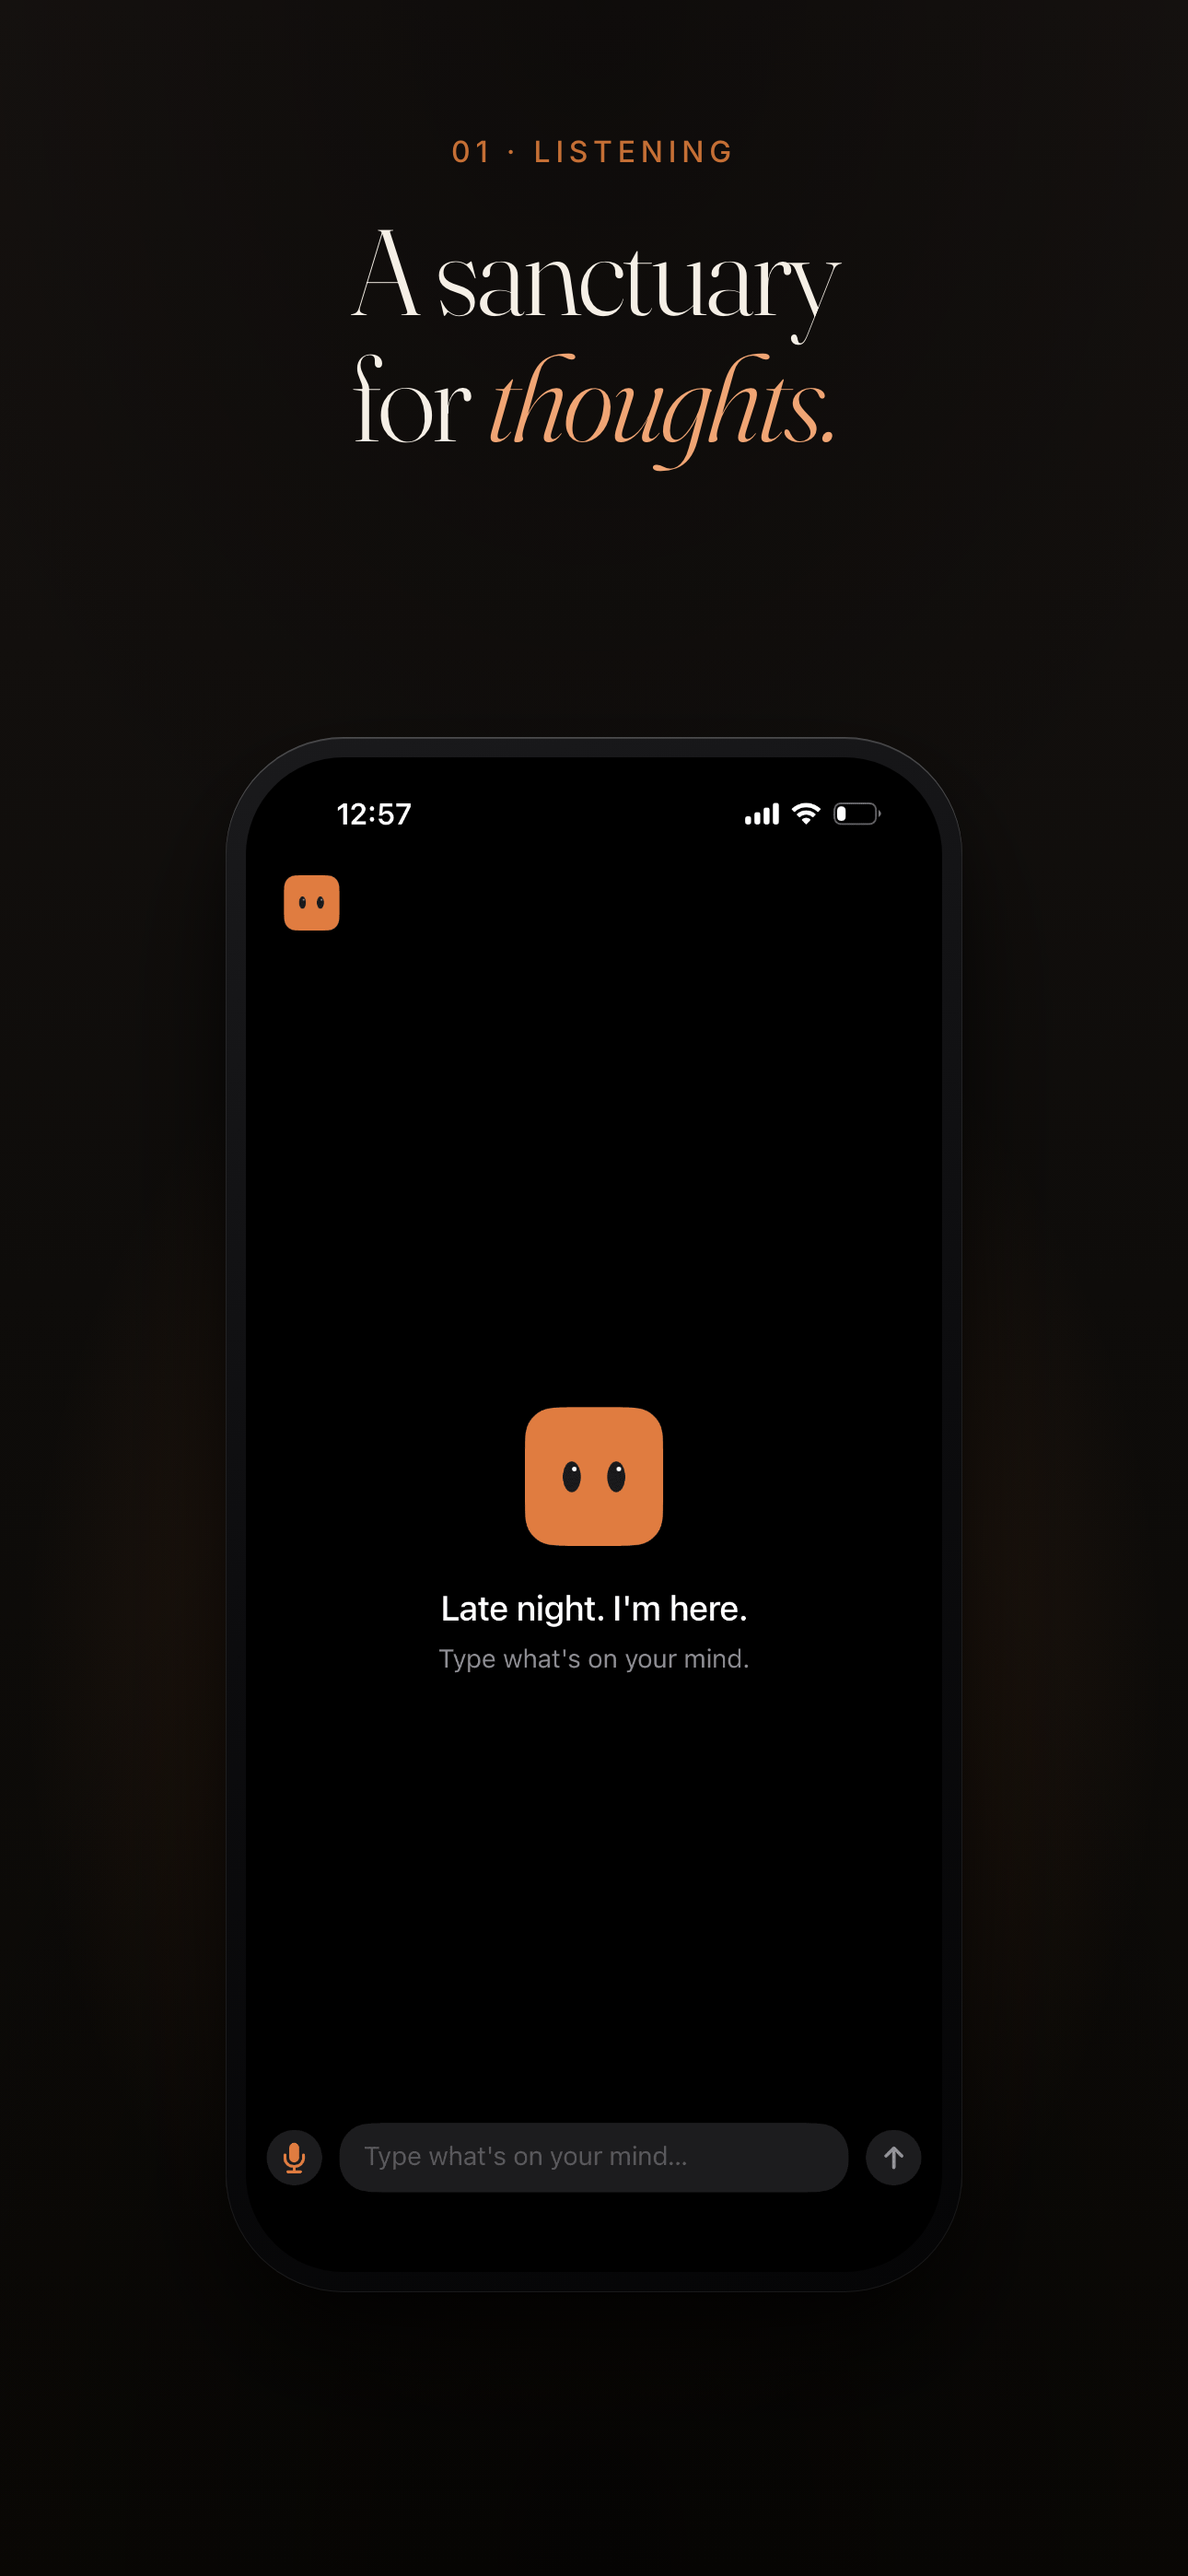
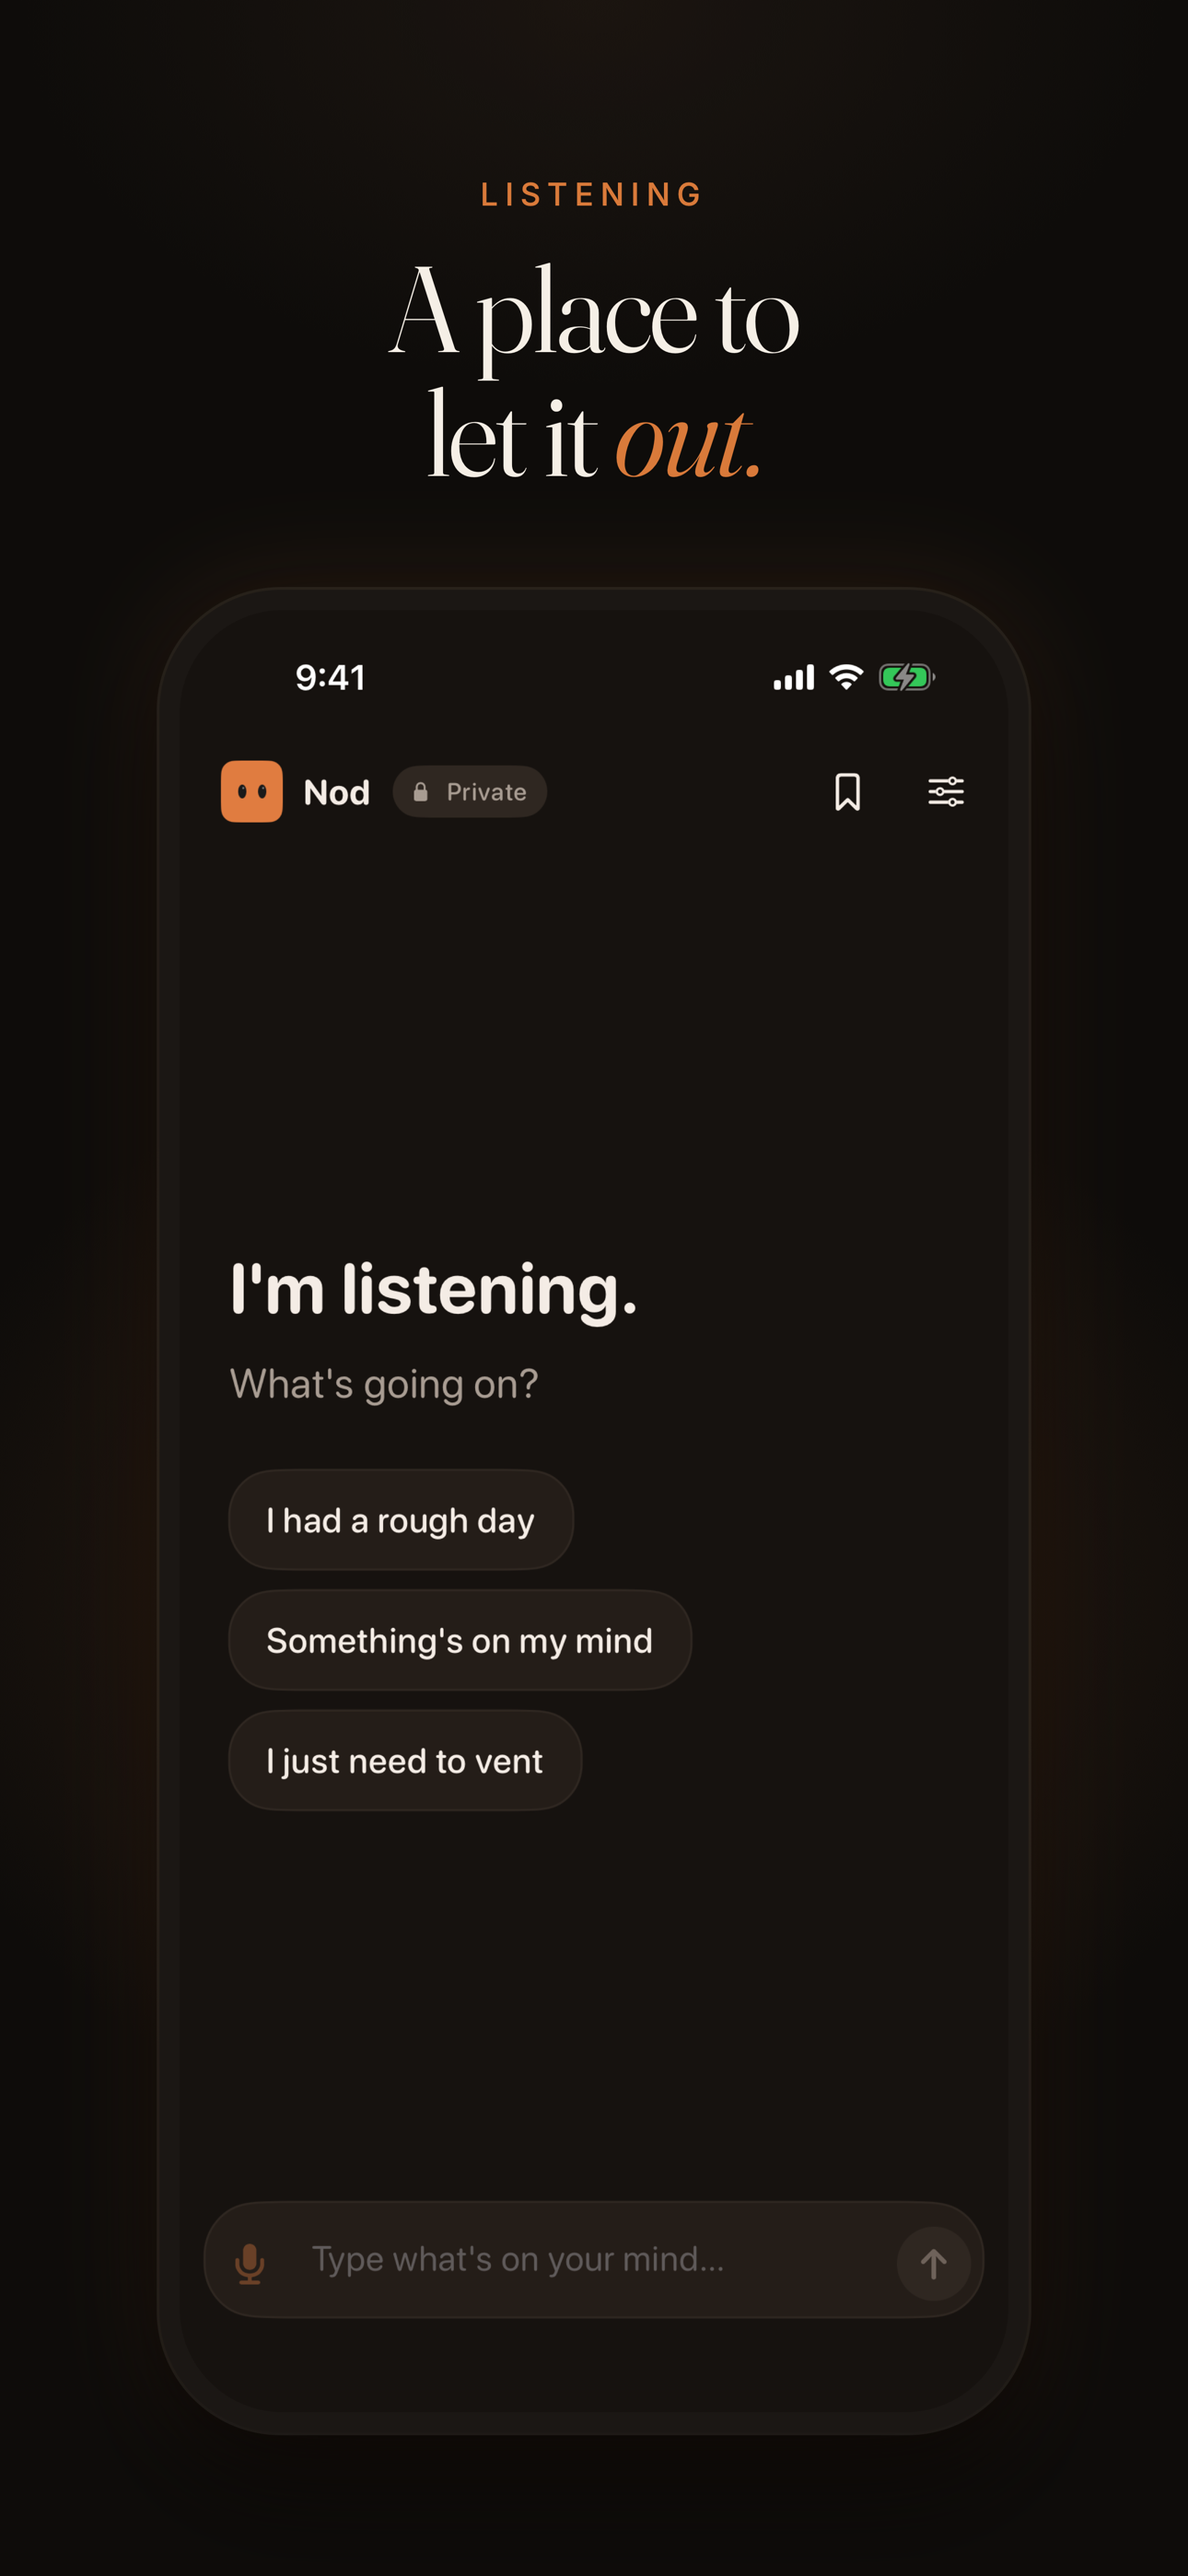
New App Store listing images and a generator for them
Eight 1290×2796 images showing the Soft app (dark, plus one light/dark
pair) with the website's plain-language headlines: listening, offline,
memory, voice, your way, light or dark, Face ID, and privacy in plain
numbers. Replaces the old set (old UI, engine list, "4 on-device
engines").

ios/scripts/listing-images/ renders them from an HTML template with the
system WebKit, as opaque RGB PNGs (App Store Connect rejects alpha), so
they can be regenerated after future UI changes. SUBMIT.md's upload
order is updated.

diff --git a/ios/scripts/listing-images/template.html b/ios/scripts/listing-images/template.html
@@ -1,0 +1,162 @@
+<!doctype html>
+<html lang="en">
+<head>
+<meta charset="utf-8">
+<title>Nod App Store image</title>
+<!-- Same type and palette as usenod.app, so the listing and the site
+     read as one brand. One slide per #hash (1–8); render.swift loads
+     each and snapshots it at exactly 1290×2796. -->
+<link rel="stylesheet" href="https://fonts.googleapis.com/css2?family=Fraunces:ital,opsz,wght@0,9..144,300..600;1,9..144,300..500&family=Inter:wght@400;500;600&display=swap">
+<style>
+  :root {
+    --bg: #0e0c0a;
+    --ink: #f5efe6;
+    --ink-soft: #d8cdbc;
+    --orange: #d97a3a;
+    --orange-soft: #f0a574;
+    --bezel: #1b1714;
+    --font-serif: "Fraunces", "New York", Georgia, serif;
+    --font-sans: "Inter", -apple-system, "Helvetica Neue", sans-serif;
+  }
+  html, body { margin: 0; width: 1290px; height: 2796px; overflow: hidden; background: var(--bg); }
+  body {
+    position: relative;
+    color: var(--ink);
+    font-family: var(--font-sans);
+    background:
+      radial-gradient(1100px 900px at 50% 62%, rgba(217,122,58,0.16), rgba(217,122,58,0) 70%),
+      radial-gradient(900px 600px at 50% 0%, rgba(240,165,116,0.06), rgba(240,165,116,0) 70%),
+      var(--bg);
+  }
+  .slide { position: absolute; inset: 0; display: none; flex-direction: column; align-items: center; }
+  .slide.on { display: flex; }
+
+  .eyebrow {
+    margin-top: 190px;
+    font-size: 34px; font-weight: 500; letter-spacing: 0.22em; text-transform: uppercase;
+    color: var(--orange);
+  }
+  h1 {
+    margin: 36px 0 0;
+    font-family: var(--font-serif); font-weight: 340;
+    font-variation-settings: "opsz" 144, "SOFT" 50;
+    font-size: 132px; line-height: 1.02; letter-spacing: -0.02em;
+    text-align: center;
+  }
+  h1 em { font-style: italic; color: var(--orange); font-weight: 340; }
+
+  /* Phone: a simple bezel around the real Simulator screenshot. */
+  .phone {
+    position: absolute; left: 50%; top: 640px; transform: translateX(-50%);
+    width: 900px; padding: 22px; border-radius: 132px;
+    background: var(--bezel);
+    box-shadow: 0 0 0 3px rgba(245,239,230,0.07), 0 60px 160px rgba(0,0,0,0.6), 0 0 180px rgba(217,122,58,0.14);
+  }
+  .phone img { display: block; width: 100%; border-radius: 112px; }
+
+  /* Two phones (light + dark) for the appearance slide. */
+  .pair { position: absolute; left: 0; right: 0; top: 640px; height: 2156px; }
+  .pair .phone { width: 760px; padding: 20px; border-radius: 112px; }
+  .pair .phone img { border-radius: 94px; }
+  .pair .phone.light { left: 32%; top: 190px; transform: translateX(-50%) rotate(-5deg); z-index: 1; }
+  .pair .phone.dark { left: 68%; top: 30px; transform: translateX(-50%) rotate(5deg); z-index: 2; }
+
+  /* Floating pill, as on the website's offline chapter. */
+  .pill {
+    position: absolute; left: 60px; top: 1330px; z-index: 3;
+    display: flex; align-items: center; gap: 28px;
+    padding: 30px 44px 30px 36px; border-radius: 40px;
+    background: rgba(30,25,19,0.92);
+    border: 2px solid rgba(245,239,230,0.12);
+    box-shadow: 0 30px 80px rgba(0,0,0,0.5);
+  }
+  .pill svg { width: 56px; height: 56px; color: var(--orange); flex: none; }
+  .pill small { display: block; font-size: 24px; letter-spacing: 0.2em; text-transform: uppercase; color: var(--orange); }
+  .pill strong { display: block; margin-top: 6px; font-size: 40px; font-weight: 500; color: var(--ink); }
+
+  /* Privacy slide: plain numbers instead of a phone. */
+  .stats { margin-top: 170px; display: grid; grid-template-columns: repeat(2, 470px); gap: 40px; }
+  .stat {
+    height: 430px; border-radius: 56px;
+    background: rgba(30,25,19,0.75); border: 2px solid rgba(245,239,230,0.08);
+    display: flex; flex-direction: column; align-items: center; justify-content: center; gap: 22px;
+  }
+  .stat b {
+    font-family: var(--font-serif); font-style: italic; font-weight: 300;
+    font-size: 210px; line-height: 1; color: var(--orange);
+  }
+  .stat b.small { font-size: 150px; }
+  .stat span { font-size: 36px; letter-spacing: 0.18em; text-transform: uppercase; color: var(--ink-soft); }
+  .note { margin-top: 110px; max-width: 980px; text-align: center; font-size: 44px; line-height: 1.5; color: var(--ink-soft); }
+</style>
+</head>
+<body>
+
+<section class="slide" data-n="1">
+  <div class="eyebrow">Listening</div>
+  <h1>A place to<br>let it <em>out.</em></h1>
+  <div class="phone"><img src="screens/empty.png" alt=""></div>
+</section>
+
+<section class="slide" data-n="2">
+  <div class="eyebrow">Anywhere</div>
+  <h1>Works even when<br>you're <em>offline.</em></h1>
+  <div class="pill">
+    <svg viewBox="0 0 24 24" fill="none" stroke="currentColor" stroke-width="1.6" stroke-linecap="round" stroke-linejoin="round" aria-hidden="true"><path d="M17.8 19.2 16 11l3.5-3.5C21 6 21.5 4 21 3c-1-.5-3 0-4.5 1.5L13 8 4.8 6.2c-.5-.1-.9.1-1.1.5l-.3.5c-.2.5-.1 1 .3 1.3L9 12l-2 3H4l-1 1 3 2 2 3 1-1v-3l3-2 3.5 5.3c.3.4.8.5 1.3.3l.5-.2c.4-.3.6-.7.5-1.2z"/></svg>
+    <div><small>Connection</small><strong>No internet needed</strong></div>
+  </div>
+  <div class="phone"><img src="screens/chat.png" alt=""></div>
+</section>
+
+<section class="slide" data-n="3">
+  <div class="eyebrow">Memory</div>
+  <h1>No need to<br><em>repeat yourself.</em></h1>
+  <div class="phone"><img src="screens/memory.png" alt=""></div>
+</section>
+
+<section class="slide" data-n="4">
+  <div class="eyebrow">Voice</div>
+  <h1>Or just <em>talk.</em></h1>
+  <div class="phone"><img src="screens/voice.png" alt=""></div>
+</section>
+
+<section class="slide" data-n="5">
+  <div class="eyebrow">Your way</div>
+  <h1>Talks the way<br><em>you need.</em></h1>
+  <div class="phone"><img src="screens/personalization.png" alt=""></div>
+</section>
+
+<section class="slide" data-n="6">
+  <div class="eyebrow">Light or dark</div>
+  <h1>Warm by day,<br><em>soft at night.</em></h1>
+  <div class="pair">
+    <div class="phone light"><img src="screens/chat-light.png" alt=""></div>
+    <div class="phone dark"><img src="screens/chat.png" alt=""></div>
+  </div>
+</section>
+
+<section class="slide" data-n="7">
+  <div class="eyebrow">Private</div>
+  <h1>Only <em>you</em><br>can open it.</h1>
+  <div class="phone"><img src="screens/lock.png" alt=""></div>
+</section>
+
+<section class="slide" data-n="8">
+  <div class="eyebrow" style="margin-top: 330px">Private by design</div>
+  <h1>Your words stay<br><em>on your phone.</em></h1>
+  <div class="stats">
+    <div class="stat"><b>0</b><span>Accounts</span></div>
+    <div class="stat"><b>0</b><span>Ads</span></div>
+    <div class="stat"><b>0</b><span>Tracking</span></div>
+    <div class="stat"><b class="small">100%</b><span>On your iPhone</span></div>
+  </div>
+  <p class="note">What you write is saved on your iPhone and answered by AI that runs on your iPhone. It isn't sent to us or anyone else.</p>
+</section>
+
+<script>
+  var n = (location.hash || "#1").slice(1);
+  var s = document.querySelector('.slide[data-n="' + n + '"]');
+  if (s) s.classList.add("on");
+</script>
+</body>
+</html>

diff --git a/ios/scripts/listing-images/render.swift b/ios/scripts/listing-images/render.swift
@@ -1,0 +1,103 @@
+// render.swift
+// Renders the App Store listing images from template.html with the
+// system WebKit (no browser install needed) at exactly 1290×2796, the
+// 6.7" iPhone size App Store Connect uses for every newer iPhone.
+//
+//   swift ios/scripts/listing-images/render.swift <output-dir>
+//
+// Each slide is template.html#N. Fonts load from Google Fonts, so this
+// needs a network connection. Source screens live in ./screens (real
+// Simulator captures; see README.md for how to refresh them).
+
+import AppKit
+import WebKit
+
+let width = 1290
+let height = 2796
+let slides: [(Int, String)] = [
+    (1, "01-listening"), (2, "02-offline"), (3, "03-memory"), (4, "04-voice"),
+    (5, "05-your-way"), (6, "06-light-dark"), (7, "07-private"), (8, "08-privacy"),
+]
+
+let here = URL(fileURLWithPath: #filePath).absoluteURL.deletingLastPathComponent()
+let template = here.appendingPathComponent("template.html")
+let outDir = URL(fileURLWithPath: CommandLine.arguments.dropFirst().first ?? here.appendingPathComponent("out").path)
+try? FileManager.default.createDirectory(at: outDir, withIntermediateDirectories: true)
+
+@MainActor
+final class Renderer: NSObject, WKNavigationDelegate {
+    let window: NSWindow
+    let webView: WKWebView
+    var queue = slides
+    var current: (Int, String)?
+
+    override init() {
+        let frame = NSRect(x: 0, y: 0, width: width, height: height)
+        webView = WKWebView(frame: frame, configuration: WKWebViewConfiguration())
+        window = NSWindow(contentRect: NSRect(x: -20000, y: -20000, width: width, height: height),
+                          styleMask: [.borderless], backing: .buffered, defer: false)
+        super.init()
+        window.contentView = webView
+        window.orderBack(nil)
+        webView.navigationDelegate = self
+    }
+
+    func next() {
+        guard !queue.isEmpty else { NSApp.terminate(nil); return }
+        current = queue.removeFirst()
+        // A distinct query per slide makes each load a real navigation
+        // (a hash change alone wouldn't fire didFinish).
+        var url = URLComponents(url: template.absoluteURL, resolvingAgainstBaseURL: true)!
+        url.fragment = String(current!.0)
+        url.query = "n=\(current!.0)"
+        webView.loadFileURL(url.url!, allowingReadAccessTo: here)
+    }
+
+    func webView(_ webView: WKWebView, didFinish navigation: WKNavigation!) {
+        Task { @MainActor in
+            // Wait for web fonts and images, then a beat for layout.
+            _ = try? await webView.callAsyncJavaScript(
+                "await document.fonts.ready; await Promise.all([...document.images].map(i => i.decode().catch(() => {}))); return true;",
+                contentWorld: .page)
+            try? await Task.sleep(for: .milliseconds(400))
+            await snapshot()
+            next()
+        }
+    }
+
+    func snapshot() async {
+        let config = WKSnapshotConfiguration()
+        config.rect = CGRect(x: 0, y: 0, width: width, height: height)
+        config.snapshotWidth = NSNumber(value: width)
+        guard let image = try? await webView.takeSnapshot(configuration: config),
+              let (_, name) = current else {
+            print("snapshot failed for slide \(current?.0 ?? -1)")
+            return
+        }
+        // Draw into an exact-size, opaque RGB context: 1290×2796 pixels
+        // whatever the screen's backing scale, and no alpha channel
+        // (App Store Connect rejects screenshots that have one).
+        // AppKit can't draw into an alpha-less bitmap, so use CG.
+        guard let cgImage = image.cgImage(forProposedRect: nil, context: nil, hints: nil),
+              let ctx = CGContext(data: nil, width: width, height: height, bitsPerComponent: 8,
+                                  bytesPerRow: 0, space: CGColorSpace(name: CGColorSpace.sRGB)!,
+                                  bitmapInfo: CGImageAlphaInfo.noneSkipLast.rawValue) else {
+            print("could not draw slide \(current?.0 ?? -1)")
+            return
+        }
+        ctx.interpolationQuality = .high
+        ctx.draw(cgImage, in: CGRect(x: 0, y: 0, width: width, height: height))
+        let url = outDir.appendingPathComponent("\(name).png")
+        guard let out = ctx.makeImage(),
+              let dest = CGImageDestinationCreateWithURL(url as CFURL, "public.png" as CFString, 1, nil) else { return }
+        CGImageDestinationAddImage(dest, out, nil)
+        CGImageDestinationFinalize(dest)
+        print("wrote \(url.path)")
+    }
+}
+
+let app = NSApplication.shared
+app.setActivationPolicy(.prohibited)
+let renderer = MainActor.assumeIsolated { Renderer() }
+MainActor.assumeIsolated { renderer.next() }
+app.run()

diff --git a/ios/scripts/listing-images/README.md b/ios/scripts/listing-images/README.md
@@ -1,0 +1,34 @@
+# App Store listing images
+
+Generates the eight 1290×2796 listing images in
+`ios/Nod/AppStore/screenshots/` from `template.html`, using the system
+WebKit. No browser or extra tools needed; fonts load from Google Fonts,
+so it needs a network connection.
+
+```bash
+swift ios/scripts/listing-images/render.swift ios/Nod/AppStore/screenshots
+```
+
+Output is opaque RGB PNG (App Store Connect rejects images with an alpha
+channel). Each slide is `template.html#N`; open the file in a browser
+with a hash to preview one.
+
+## Source screens
+
+`screens/` holds real Simulator captures (iPhone 17 Pro, 1206×2622,
+dark mode except `chat-light.png`). To refresh them after a UI change:
+
+- Seed a conversation and memory notes into the Simulator's
+  `Library/nod-conversation.sqlite`, then launch and capture with
+  `xcrun simctl io <device> screenshot <file>.png`.
+- Pin the status bar first:
+  `xcrun simctl status_bar <device> override --time 9:41 --batteryState charged --batteryLevel 100 --cellularBars 4 --wifiBars 3`.
+- States the Simulator can't reach on its own have debug launch
+  arguments (see `ios/Nod/Views/DebugUIState.swift`): `-nodRecording YES`
+  for the voice screen and `-nodLocked YES` for the lock screen.
+
+## Copy
+
+Headlines match usenod.app and stay within the listing's positioning
+(private AI chat, no mental-health or wellness claims; see
+`ios/Nod/AppStore/listing.md`).

diff --git a/ios/Nod/AppStore/SUBMIT.md b/ios/Nod/AppStore/SUBMIT.md
@@ -95,12 +95,15 @@ Drag all 8 PNGs from `ios/Nod/AppStore/screenshots/` into the upload area, in th
 
 1. `01-listening.png`
 2. `02-offline.png`
-3. `03-engines.png`
-4. `04-memory.png`
-5. `05-voice.png`
-6. `06-personal.png`
+3. `03-memory.png`
+4. `04-voice.png`
+5. `05-your-way.png`
+6. `06-light-dark.png`
 7. `07-private.png`
-8. `08-proof.png`
+8. `08-privacy.png`
+
+To regenerate them (new UI, new copy), see
+[`ios/scripts/listing-images/`](../../scripts/listing-images/).
 
 App Store Connect auto-uses 6.7" screenshots for all newer iPhone sizes. You don't need to upload separate 6.5" or 5.5" sets unless you want to.
 

diff --git a/ios/Nod/AppStore/listing.md b/ios/Nod/AppStore/listing.md
@@ -190,6 +190,6 @@ KEY POINTS FOR REVIEW:
 - [x] Support page created at `website/support/`
 - [x] Mental-health / wellness language stripped from listing
 - [x] App Group `group.app.usenod.nod` registered in developer portal
-- [ ] All 8 screenshots uploaded at 1290×2796
+- [ ] All 8 screenshots uploaded at 1290×2796 (regenerate with `ios/scripts/listing-images/`)
 - [ ] Listing copy entered in App Store Connect (use sections above)
 - [ ] Re-generate Xcode project after `project.yml` change: `cd ios && xcodegen generate`
